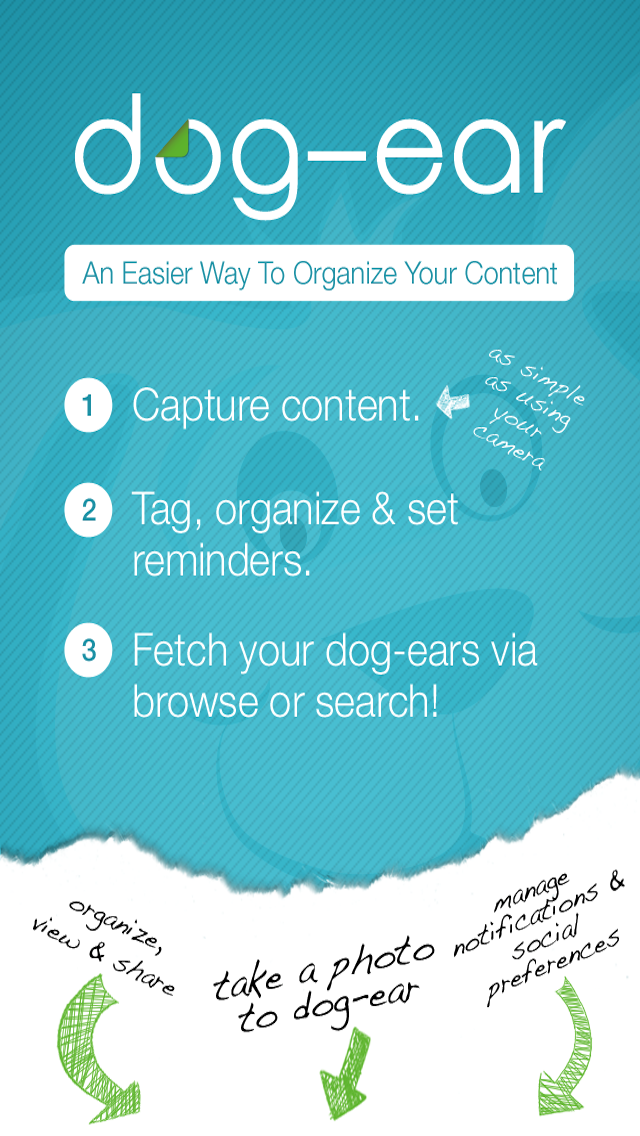
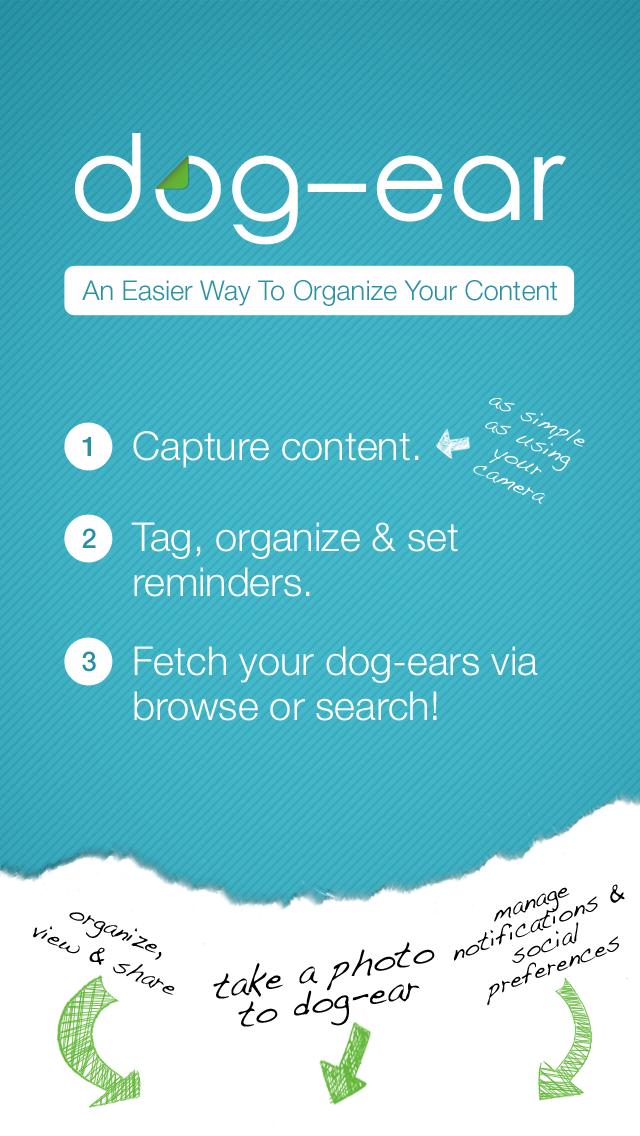
JT: update new background image

diff --git a/DogEar/Classes/ViewControllers/de_SettingViewController.m b/DogEar/Classes/ViewControllers/de_SettingViewController.m
@@ -151,9 +151,13 @@
     {
         UIViewController * vc = [[UIViewController alloc]init];
         [self.navigationController pushViewController:vc animated:YES];
-        UIImageView *backgroundImage = [[UIImageView alloc] initWithImage:[UIImage imageNamed:@"dogear-bg-instructions"]];
-        backgroundImage.frame = CGRectOffset(backgroundImage.frame, 0.0f, -20.0f);
-        backgroundImage.contentMode = UIViewContentModeScaleAspectFill;
+        
+        float height = [self.tabBarController.view bounds].size.height;
+        float width = [self.tabBarController.view bounds].size.width;
+        
+        CGRect bgFrame = CGRectMake(0.0f, 0.0f, width, height - 20.0f - 44.0f - 49.0f);        
+        UIImageView *backgroundImage = [[UIImageView alloc] initWithImage:[UIImage imageNamed:@"dogear-bg-instructions-fix"]];
+        backgroundImage.frame = bgFrame;
         [vc.view addSubview:backgroundImage];
         [vc.navigationItem setTitle:cell.textLabel.text];
     }

diff --git a/DogEar/Classes/ViewControllers/de_BrowseTableViewController.m b/DogEar/Classes/ViewControllers/de_BrowseTableViewController.m
@@ -68,9 +68,13 @@
     [super viewWillAppear:animated];
      self.navigationItem.title = @"Browse Dog Ears";
     
-    UIImageView *backgroundImage = [[UIImageView alloc] initWithImage:[UIImage imageNamed:@"dogear-bg-instructions"]];
+    float height = [self.tabBarController.view bounds].size.height;
+    float width = [self.tabBarController.view bounds].size.width;
+    CGRect bgFrame = CGRectMake(0.0f, 0.0f, width, height - 20.0f - 44.0f - 49.0f);
+    
+    UIImageView *backgroundImage = [[UIImageView alloc] initWithImage:[UIImage imageNamed:@"dogear-bg-instructions-fix"]];
     backgroundImage.tag = 999;
-    backgroundImage.contentMode = UIViewContentModeScaleAspectFit;
+    backgroundImage.frame = bgFrame;
     
     if ([[NSUserDefaults standardUserDefaults] boolForKey:@"HasLaunchedOnce"])
     {
